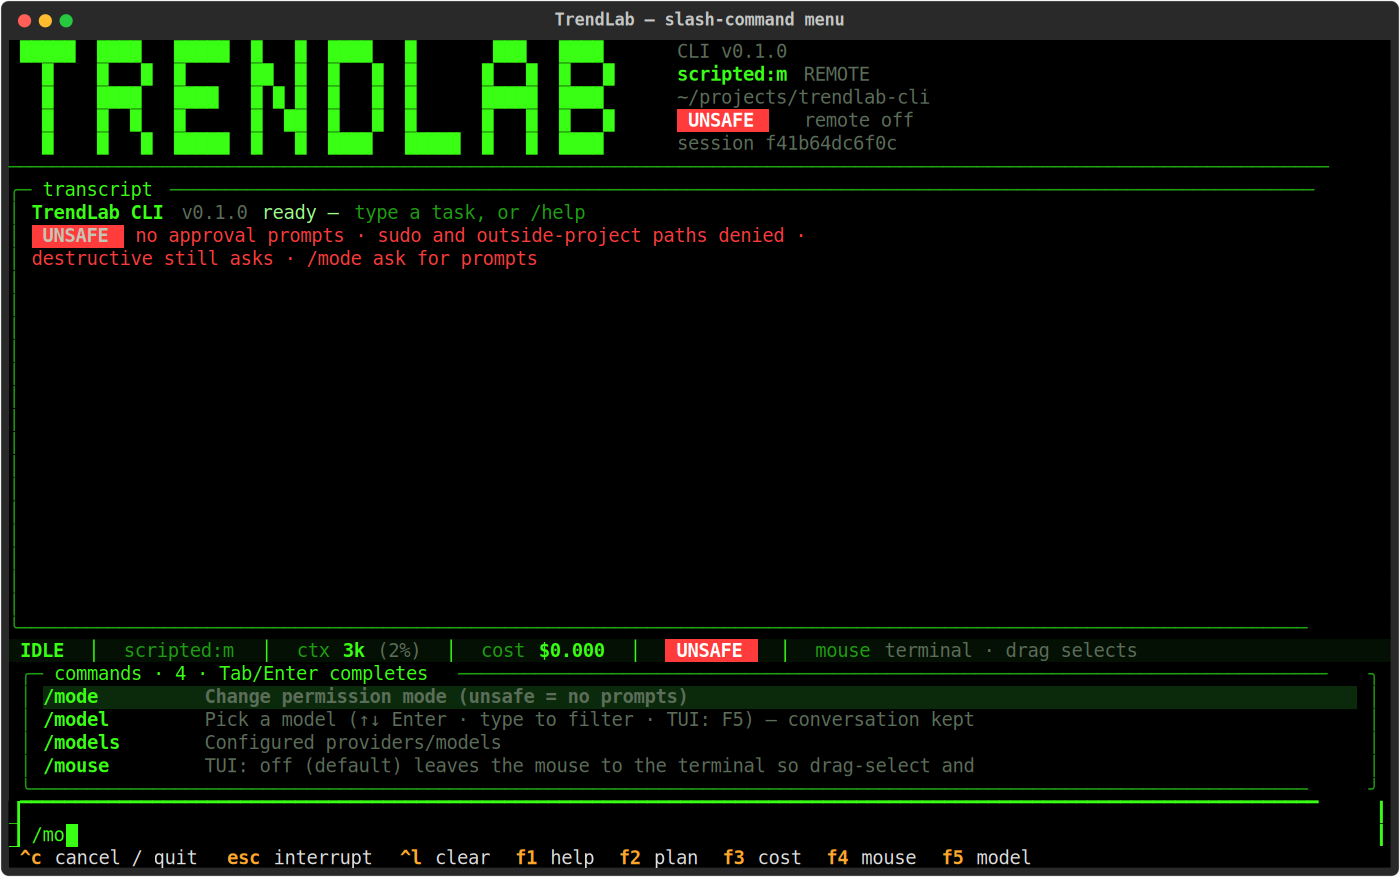
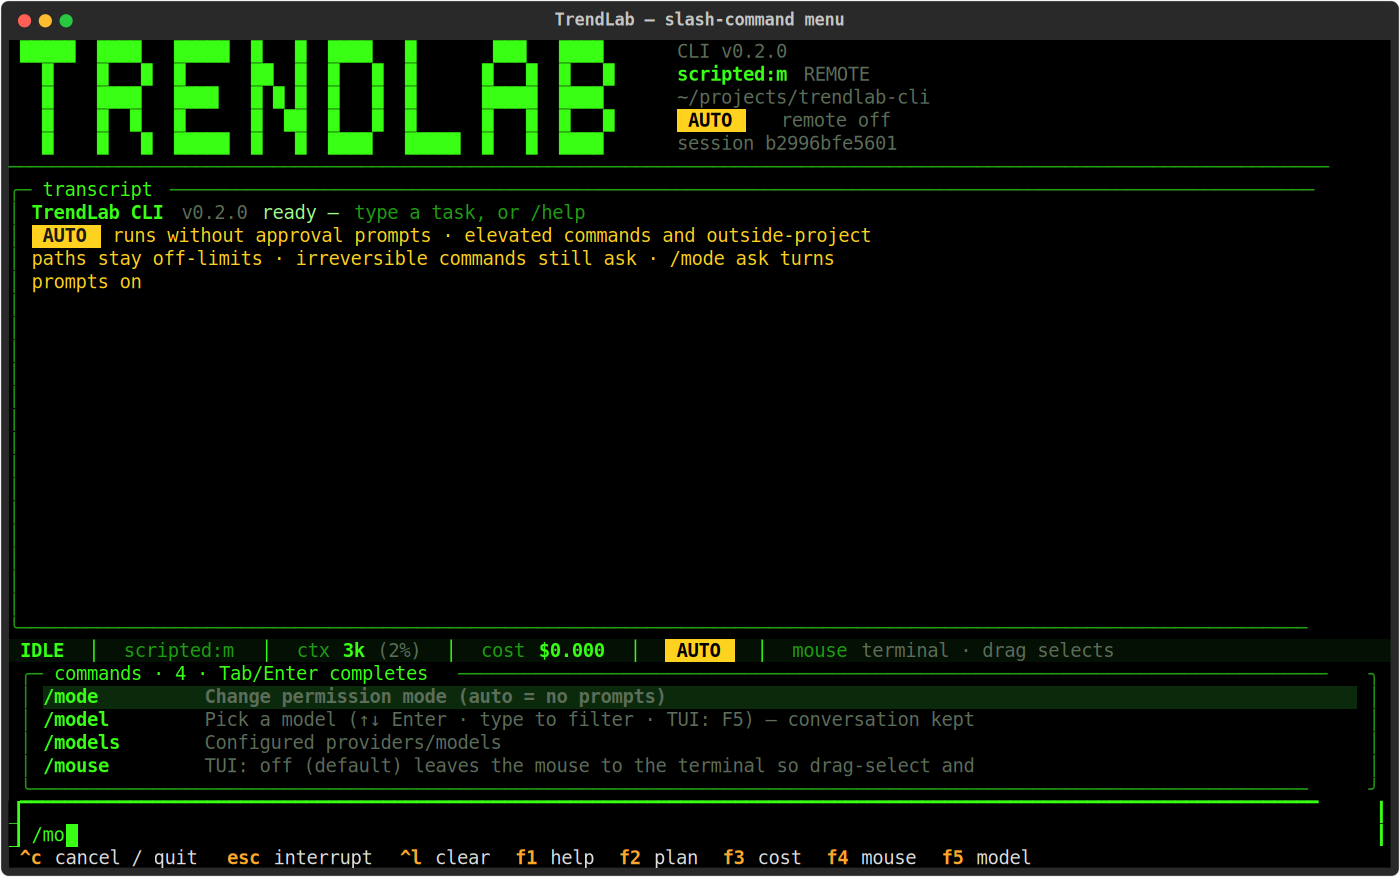
docs: regenerate every screenshot with the auto/irreversible wording

Changed region(s): [[0.0, 0.2463, 0.6143, 0.3387], [0.3379, 0.7081, 0.7986, 0.8005], [0.4607, 0.1231, 0.645, 0.1847]]

diff --git a/scripts/ux_screenshots.py b/scripts/ux_screenshots.py
@@ -99,12 +99,75 @@ async def overlay(keys: str, name: str, title: str) -> None:
         save(tui, name, title)
 
 
+async def idle(name: str) -> None:
+    tui = make_tui()
+    async with tui.run_test(size=(132, 40)) as pilot:
+        await pilot.pause()
+        save(tui, name, "TrendLab — idle")
+
+
+async def approval(name: str) -> None:
+    """ASK mode: the approval modal with the proposed diff."""
+    from trendlab.config.schema import PermissionMode
+    from trendlab.ui.tui import ApprovalModal
+
+    cfg = load_config(ROOT)
+    cfg.remote_approval = RemoteApprovalConfig(enabled=False)
+    cfg.telegram_bridge.enabled = False
+    cfg.providers["scripted"] = cfg.providers["openai"].model_copy()
+    body = (
+        (ROOT / "BUILD_STATUS.md")
+        .read_text()
+        .replace("# TrendLab Build Status", "# TrendLab Build Status\n\nUpdated by the agent.", 1)
+    )
+    provider = ScriptedProvider(
+        [
+            ModelResponse(
+                tool_calls=[
+                    ToolCall(
+                        id="1",
+                        name="write_file",
+                        arguments={"path": "BUILD_STATUS.md", "content": body},
+                    )
+                ]
+            ),
+            ModelResponse(text="done"),
+        ]
+    )
+    app = TrendLabApp(
+        ROOT,
+        cfg,
+        provider=provider,
+        model_ref="scripted:m",
+        permission_mode=PermissionMode.ASK,
+        console=Console(record=True, width=100, force_terminal=False),
+    )
+    tui = TrendLabTUI(app)
+    async with tui.run_test(size=(132, 40)) as pilot:
+        await pilot.pause()
+        box = tui.query_one("#input", PromptInput)
+        box.focus()
+        box.text = "add a note to BUILD_STATUS.md"
+        await pilot.press("enter")
+        for _ in range(200):
+            await pilot.pause(0.05)
+            if isinstance(tui.screen, ApprovalModal):
+                break
+        await pilot.pause(0.3)
+        save(tui, name, "TrendLab — approval")
+        await pilot.press("n")
+        await pilot.pause(0.5)
+
+
 async def main() -> None:
     os.environ.setdefault("TRENDLAB_NO_UPDATE_CHECK", "1")
     await transcript((132, 40), "transcript_activity")
+    await transcript((132, 40), "tui-main")
     await transcript((80, 24), "compact_80x24")
     await overlay("/mo", "slash_menu", "TrendLab — slash-command menu")
     await overlay("f5", "model_picker", "TrendLab — model picker")
+    await idle("tui-idle")
+    await approval("tui-approval")
 
 
 if __name__ == "__main__":
